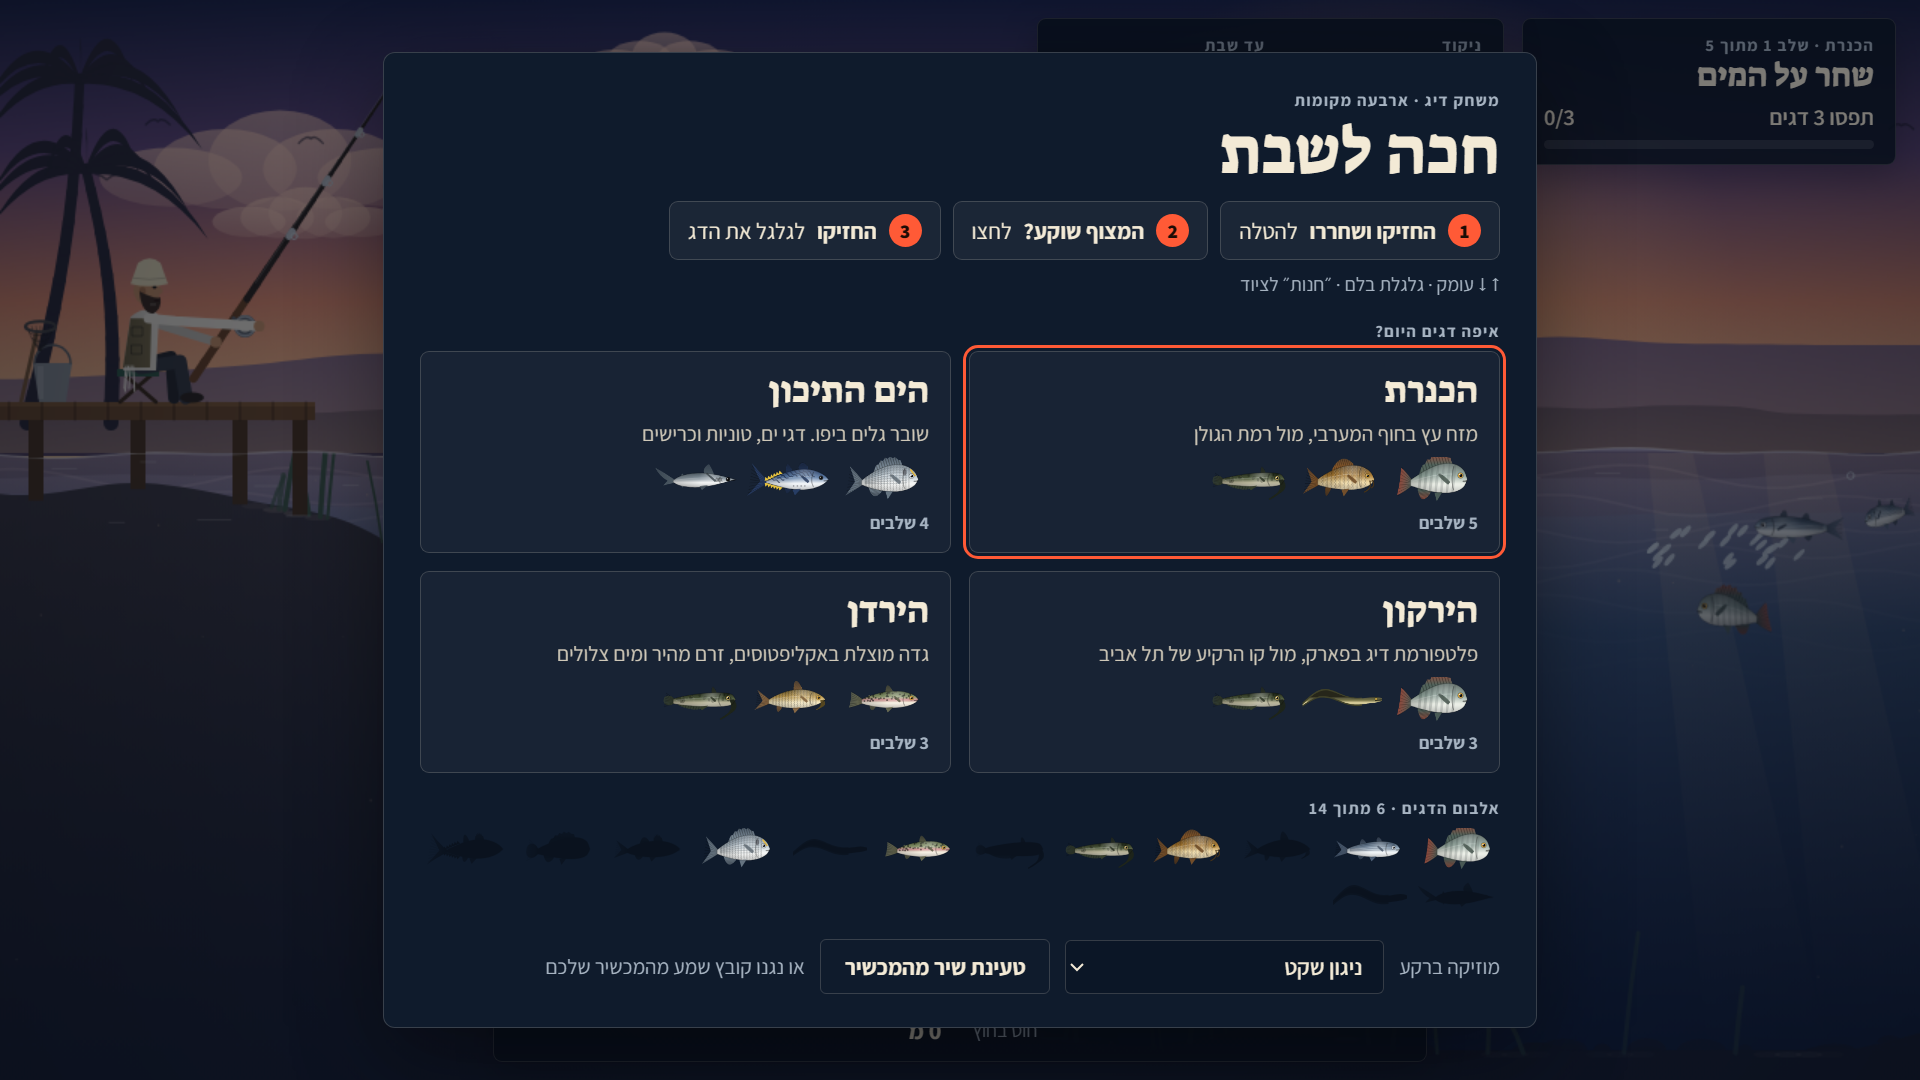
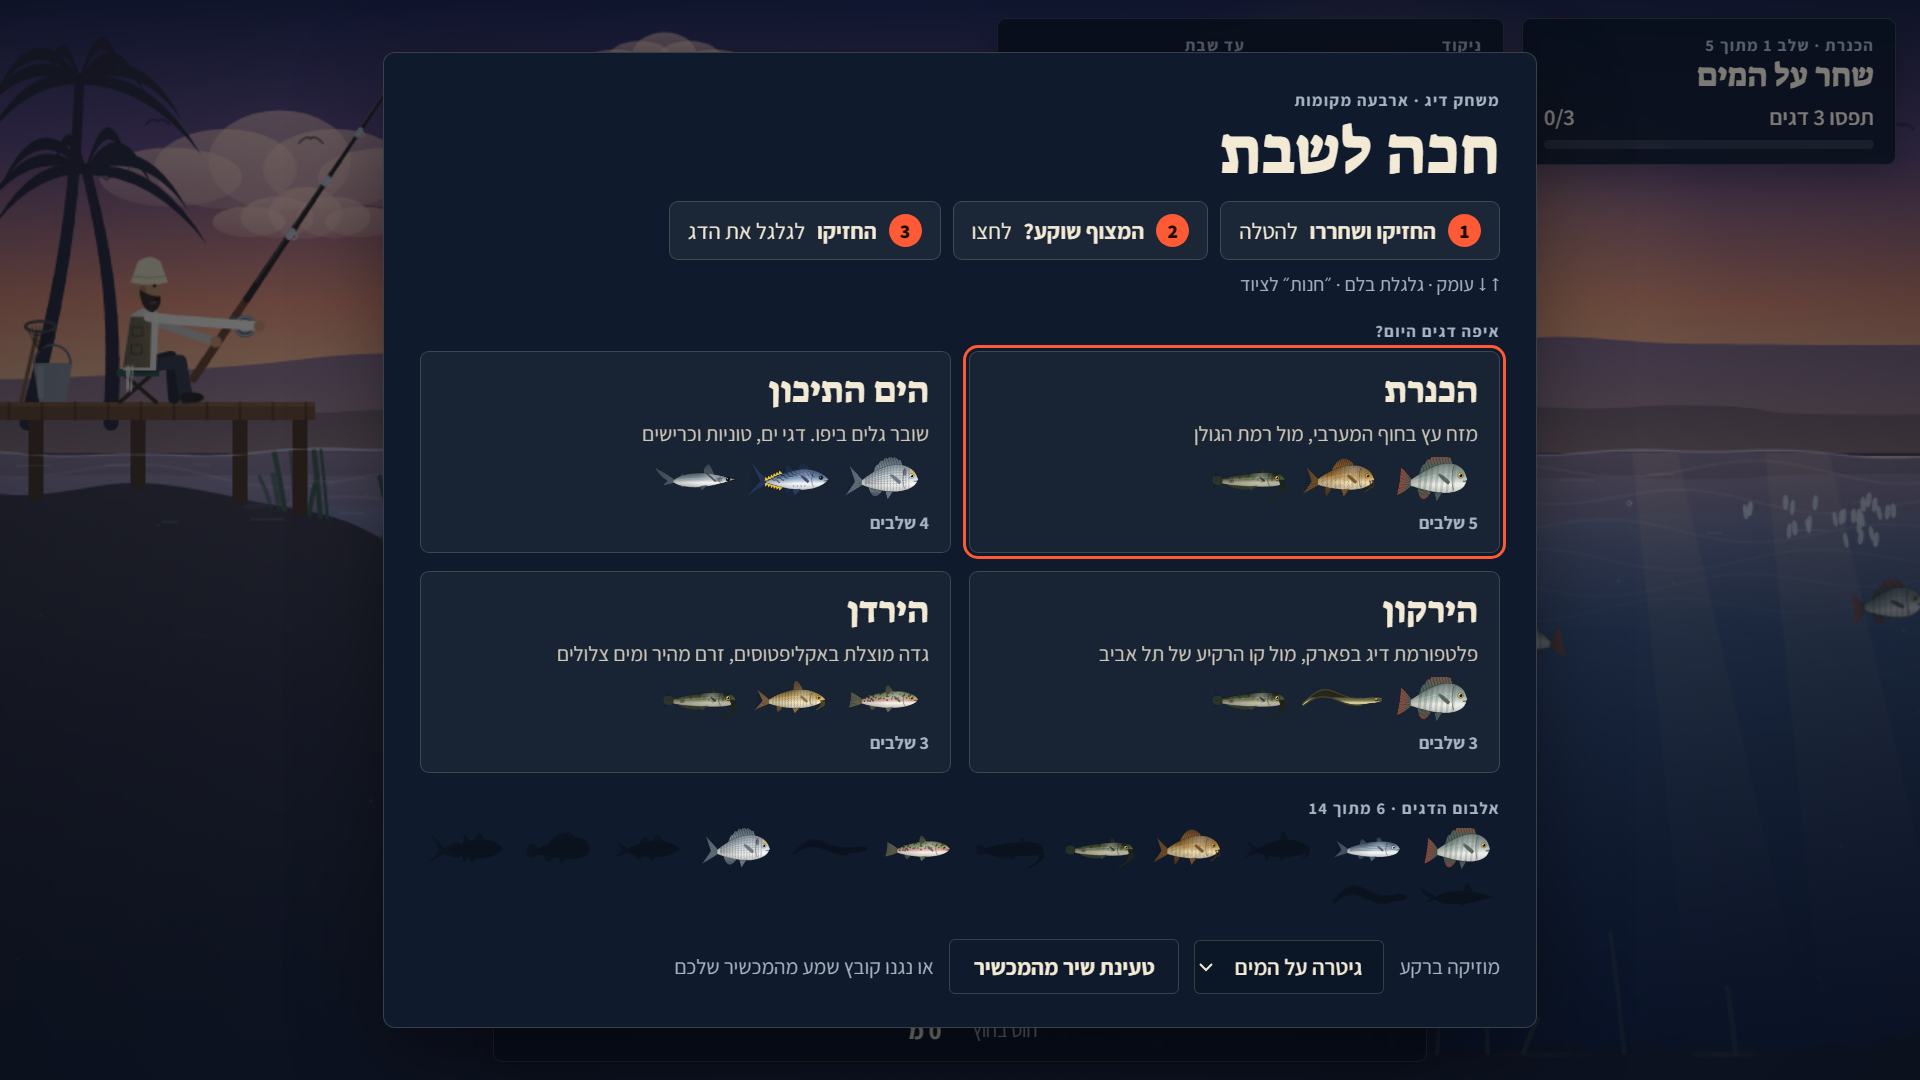
מוזיקה חדשה: גיטרה, נבל, עוד ומים

diff --git a/index.html b/index.html
@@ -1101,149 +1101,133 @@ const sfx = {
   voice: () => { tone(330, 300, 0.09, 'triangle', 0.07); setTimeout(() => tone(392, 360, 0.12, 'triangle', 0.07), 100); },
 };
 
-/* ---------- music: an original niggun in Ahava Rabbah mode (D freygish), synthesised live ---------- */
-const NOTE = { D4: 62, Eb4: 63, Fs4: 66, G4: 67, A4: 69, Bb4: 70, C5: 72, D5: 74, Eb5: 75, Fs5: 78, G5: 79, A5: 81 };
-const CHORD = { D: [38, [50, 54, 57]], Gm: [43, [55, 58, 62]], Cm: [36, [48, 51, 55]] };
-const TUNE = [
-  { m: 'A4 D5 D5 C5 Bb4 C5 D5:2 Eb5 D5 C5 Bb4 A4:4 A4 Bb4 C5 Bb4 A4 G4 Fs4:2 G4 A4 Bb4 G4 A4:4', c: 'D Gm Cm D Gm D Gm D' },
-  { m: 'A4 D5 D5 C5 Bb4 C5 D5:2 Eb5 D5 C5 Bb4 A4:2 A4:2 G4 Fs4 G4 A4 Bb4 A4 G4:2 Fs4 Eb4 Fs4 G4 D4:4', c: 'D Gm Cm D Cm Gm Cm D' },
-  { m: 'D5 Fs5 A5:2 G5 Fs5 Eb5:2 D5 Eb5 Fs5 Eb5 D5:4 C5 D5 Eb5 D5 C5 Bb4 A4:2 Bb4 C5 D5 C5 A4:4', c: 'D Cm D D Cm Gm Gm D' },
-  { m: 'D5 Fs5 A5:2 G5 Fs5 Eb5:2 D5 Eb5 Fs5 Eb5 D5:2 D5:2 C5 Bb4 A4 G4 Fs4 G4 A4:2 G4 Fs4 Eb4 Fs4 D4:4', c: 'D Cm D D Cm D Cm D' },
-].map(t => ({ m: t.m.split(/\s+/).map(tok => { const [n, l] = tok.split(':'); return [NOTE[n], +(l || 1)]; }), c: t.c.split(' ') }));
-const ORDER = [0, 1, 0, 1, 2, 3, 2, 3];
-/* Mizrahi tracks: original melodies in Arabic maqamat, with quarter tones (qb = half-flat) */
-const MZ = { C4: 60, D4: 62, Eb4: 63, Eqb4: 63.5, F4: 65, Fs4: 66, G4: 67, A4: 69, Bb4: 70, Bqb4: 70.5, C5: 72, D5: 74, Eb5: 75 };
-const mzParse = str => str.trim().split(/\s+/).map(tok => { const [n, l] = tok.split(':'); return [MZ[n], +(l || 1)]; });
-const RHYTHM = { maqsum: 'DT.TD.T.', baladi: 'DD.TD.T.', ayoub: 'D.kDT.k.' };
-const TRACKS = [
-  { name: 'ניגון שקט', kind: 'niggun' },
-  { name: 'ערב שבת · מקאם חיג׳אז', kind: 'mz', bpm: 100, tonic: 50, drum: 'maqsum', secs: ['A', 'A', 'B', 'A'],
-    A: 'D4 Eb4 Fs4 G4 A4:2 Bb4 A4  G4:2 A4 G4 Fs4:2 Eb4 Fs4  G4 A4 Bb4 C5 D5:2 C5 Bb4  A4 G4 Fs4 Eb4 D4:4',
-    B: 'A4 D5 D5 Eb5 D5:2 C5 Bb4  C5:2 Bb4 A4 Bb4:2 A4 G4  A4 Bb4 C5 Bb4 A4 G4 Fs4 G4  A4:6 Fs4 Eb4' },
-  { name: 'סעודת ליל שבת · מקאם ראסט', kind: 'mz', bpm: 92, tonic: 48, drum: 'baladi', secs: ['A', 'A', 'B', 'A'],
-    A: 'C4 D4 Eqb4 F4 G4:2 F4 Eqb4  D4:2 Eqb4 F4 Eqb4:2 D4 C4  G4 A4 Bqb4 C5 D5:2 C5 Bqb4  A4 G4 F4 Eqb4 D4:2 C4:2',
-    B: 'G4 C5 C5 D5 C5:2 Bqb4 A4  Bqb4:2 A4 G4 A4:2 G4 F4  Eqb4 F4 G4 A4 G4 F4 Eqb4 D4  G4:6 F4 Eqb4' },
-  { name: 'שבת בגליל · מקאם ביאת', kind: 'mz', bpm: 116, tonic: 50, drum: 'ayoub', secs: ['A', 'A', 'B', 'A'],
-    A: 'D4 Eqb4 F4 G4 A4:2 G4 F4  Eqb4 F4 G4 F4 Eqb4:2 D4:2  A4 Bb4 C5 Bb4 A4 G4 F4 G4  A4:2 G4 F4 Eqb4 F4 D4:2',
-    B: 'D5:2 C5 Bb4 A4:2 Bb4 C5  D5 C5 Bb4 A4 G4:2 A4 Bb4  A4 G4 F4 G4 A4 Bb4 A4 G4  F4 Eqb4 F4 G4 A4:4' },
-].map(t => t.kind === 'mz' ? Object.assign(t, { parts: { A: mzParse(t.A), B: mzParse(t.B) } }) : t);
-const MUSIC_KEY = 'hakhaleshabat-music';
-const music = { on: true, track: 0, next: 0, sec: 0, idx: 0, pos: 0, prev: null, own: null, src: null };
-try { const v = JSON.parse(localStorage.getItem(MUSIC_KEY)); if (v === 'off') music.on = false; else if (TRACKS[v]) music.track = v; } catch (e) { /* storage blocked */ }
-let mbus = null, noiseBuf = null;
+/* ---------- music: plucked strings (Karplus-Strong) in a soft room, calm and unhurried ---------- */
+const MUSIC_KEY = 'hakhaleshabat-music2';
+const music = { on: true, track: 0, next: 0, step: 0, own: null, src: null, water: null };
+try { const v = JSON.parse(localStorage.getItem(MUSIC_KEY)); if (v === 'off') music.on = false; else if (Number.isInteger(v) && v >= 0 && v < 4) music.track = v; } catch (e) { /* storage blocked */ }
+let mbus = null;
 const mtof = m => 440 * Math.pow(2, (m - 69) / 12);
-function musicBus() { if (!mbus) { mbus = AC.createGain(); mbus.gain.value = music.on ? 0.38 : 0; mbus.connect(AC.destination); } return mbus; }
-function mvoice(type, m, t, dur, gain, cutoff, vib) {
-  const o = AC.createOscillator(), g = AC.createGain(), f = AC.createBiquadFilter();
-  o.type = type; o.frequency.setValueAtTime(mtof(m), t);
-  if (vib && dur > 0.3) { const l = AC.createOscillator(), lg = AC.createGain(); l.frequency.value = 5.5; lg.gain.setValueAtTime(0, t); lg.gain.linearRampToValueAtTime(mtof(m) * 0.012, t + 0.25); l.connect(lg); lg.connect(o.frequency); l.start(t); l.stop(t + dur + 0.05); }
-  f.type = 'lowpass'; f.frequency.value = cutoff;
-  g.gain.setValueAtTime(0.0001, t); g.gain.exponentialRampToValueAtTime(gain, t + 0.015);
-  g.gain.setValueAtTime(gain, t + dur * 0.75); g.gain.exponentialRampToValueAtTime(0.0001, t + dur);
-  o.connect(f); f.connect(g); g.connect(musicBus()); o.start(t); o.stop(t + dur + 0.02);
+function roomIR() {
+  const len = Math.floor(AC.sampleRate * 2.4), b = AC.createBuffer(2, len, AC.sampleRate);
+  for (let c = 0; c < 2; c++) { const d = b.getChannelData(c); for (let i = 0; i < len; i++) d[i] = (Math.random() * 2 - 1) * Math.pow(1 - i / len, 3.2); }
+  return b;
 }
-function mdrumNoise(t, dur, type, freq, q, gain) {
-  if (!noiseBuf) { noiseBuf = AC.createBuffer(1, Math.floor(AC.sampleRate * 0.3), AC.sampleRate); const d = noiseBuf.getChannelData(0); for (let i = 0; i < d.length; i++) d[i] = Math.random() * 2 - 1; }
-  const s = AC.createBufferSource(), f = AC.createBiquadFilter(), g = AC.createGain();
-  s.buffer = noiseBuf; f.type = type; f.frequency.value = freq; f.Q.value = q;
-  g.gain.setValueAtTime(gain, t); g.gain.exponentialRampToValueAtTime(0.0001, t + dur);
-  s.connect(f); f.connect(g); g.connect(musicBus()); s.start(t); s.stop(t + dur + 0.02);
+function musicBus() {
+  if (!mbus) {
+    mbus = AC.createGain(); mbus.gain.value = music.on ? 0.55 : 0;
+    const comp = AC.createDynamicsCompressor(); comp.threshold.value = -18; comp.ratio.value = 3;
+    const rev = AC.createConvolver(), wet = AC.createGain(); rev.buffer = roomIR(); wet.gain.value = 0.3;
+    mbus.connect(comp); mbus.connect(rev); rev.connect(wet); wet.connect(comp); comp.connect(AC.destination);
+  }
+  return mbus;
 }
-function mkick(t, gain, f0 = 110, f1 = 45, len = 0.18) {
+// a plucked string, rendered once per note and instrument
+const VOICE = {
+  guitar: { len: 3.2, decay: 0.996, pick: 0.35 },
+  harp: { len: 4.0, decay: 0.998, pick: 0.6 },
+  oud: { len: 2.4, decay: 0.993, pick: 0.85 },
+};
+const ksCache = new Map();
+function ks(m, voice) {
+  const key = voice + m;
+  if (ksCache.has(key)) return ksCache.get(key);
+  const v = VOICE[voice], sr = AC.sampleRate, P = sr / mtof(m) - 0.5, Pi = Math.floor(P), fr = P - Pi;
+  const n = Math.floor(sr * v.len), b = AC.createBuffer(1, n, sr), y = b.getChannelData(0);
+  let lp = 0;
+  for (let i = 0; i < Pi + 2 && i < n; i++) { lp += (Math.random() * 2 - 1 - lp) * v.pick; y[i] = lp; }
+  for (let i = Pi + 2; i < n; i++) {
+    const a = y[i - Pi] * (1 - fr) + y[i - Pi - 1] * fr, c = y[i - Pi - 1] * (1 - fr) + y[i - Pi - 2] * fr;
+    y[i] = v.decay * 0.5 * (a + c);
+  }
+  let pk = 0; for (let i = 0; i < Math.min(n, 6000); i++) pk = Math.max(pk, Math.abs(y[i]));
+  const k = pk ? 0.9 / pk : 1; for (let i = 0; i < n; i++) y[i] *= k;
+  for (let i = 0; i < 400; i++) y[n - 1 - i] *= i / 400;          // no click at the end
+  ksCache.set(key, b);
+  return b;
+}
+function pluck(m, voice, t, gain) {
+  const s = AC.createBufferSource(), g = AC.createGain();
+  s.buffer = ks(m, voice); g.gain.value = gain;
+  s.connect(g); g.connect(musicBus()); s.start(t);
+}
+function pad(ms, t, dur, gain) {
+  for (const m of ms) {
+    const o = AC.createOscillator(), g = AC.createGain(); o.type = 'sine'; o.frequency.value = mtof(m);
+    g.gain.setValueAtTime(0.0001, t); g.gain.linearRampToValueAtTime(gain, t + dur * 0.4); g.gain.linearRampToValueAtTime(0.0001, t + dur);
+    o.connect(g); g.connect(musicBus()); o.start(t); o.stop(t + dur + 0.05);
+  }
+}
+function mdum(t, gain) {
   const o = AC.createOscillator(), g = AC.createGain();
-  o.frequency.setValueAtTime(f0, t); o.frequency.exponentialRampToValueAtTime(f1, t + len * 0.7);
-  g.gain.setValueAtTime(gain, t); g.gain.exponentialRampToValueAtTime(0.0001, t + len);
-  o.connect(g); g.connect(musicBus()); o.start(t); o.stop(t + len + 0.02);
+  o.frequency.setValueAtTime(92, t); o.frequency.exponentialRampToValueAtTime(55, t + 0.25);
+  g.gain.setValueAtTime(gain, t); g.gain.exponentialRampToValueAtTime(0.0001, t + 0.5);
+  o.connect(g); g.connect(musicBus()); o.start(t); o.stop(t + 0.55);
 }
-// darbuka: dum (low), tek (sharp rim), ka (soft rim)
-function mdrum(sym, t) {
-  if (sym === 'D') { mkick(t, 0.32, 100, 52, 0.3); mdrumNoise(t, 0.04, 'lowpass', 300, 0.7, 0.12); }
-  else if (sym === 'T') mdrumNoise(t, 0.06, 'bandpass', 3400, 1.6, 0.11);
-  else if (sym === 'k') mdrumNoise(t, 0.05, 'bandpass', 3000, 1.6, 0.08);
+// gentle lake water: looped brown noise that rises and falls like small waves
+function waterStart() {
+  if (music.water) return;
+  const sr = AC.sampleRate, len = sr * 6, b = AC.createBuffer(1, len, sr), d = b.getChannelData(0);
+  let br = 0; for (let i = 0; i < len; i++) { br = br * 0.985 + (Math.random() * 2 - 1) * 0.015; d[i] = br * 5; }
+  const fade = sr; for (let i = 0; i < fade; i++) { const w = i / fade; d[len - fade + i] = d[len - fade + i] * (1 - w) + d[i] * w; }
+  const s = AC.createBufferSource(), f = AC.createBiquadFilter(), g = AC.createGain(), l = AC.createOscillator(), lg = AC.createGain();
+  s.buffer = b; s.loop = true; f.type = 'lowpass'; f.frequency.value = 650;
+  g.gain.value = 0.22; l.frequency.value = 0.17; lg.gain.value = 0.12; l.connect(lg); lg.connect(g.gain);
+  s.connect(f); f.connect(g); g.connect(musicBus()); s.start(); l.start();
+  music.water = { s, l };
 }
-// oud and qanun: a bright pluck that darkens as it decays
-function mpluck(n, t, gain) {
-  const o = AC.createOscillator(), f = AC.createBiquadFilter(), g = AC.createGain();
-  o.type = 'sawtooth'; o.frequency.setValueAtTime(mtof(n) * 1.01, t); o.frequency.exponentialRampToValueAtTime(mtof(n), t + 0.03);
-  f.type = 'lowpass'; f.frequency.setValueAtTime(3200, t); f.frequency.exponentialRampToValueAtTime(500, t + 0.25); f.Q.value = 2;
-  g.gain.setValueAtTime(gain, t); g.gain.exponentialRampToValueAtTime(0.0001, t + 0.7);
-  o.connect(f); f.connect(g); g.connect(musicBus()); o.start(t); o.stop(t + 0.72);
+function waterStop() { if (music.water) { try { music.water.s.stop(); music.water.l.stop(); } catch (e) { /* already stopped */ } music.water = null; } }
+
+const hum = () => rand(-0.008, 0.008);
+// 1 · fingerpicked guitar, G major, I–vi–IV–V
+const GTR = { G: [43, 50, 55, 59, 62, 67], Em: [40, 47, 52, 55, 59, 64], C: [48, 52, 55, 60, 64, 67], D: [50, 57, 62, 66, 69], Am: [45, 52, 57, 60, 64] };
+const GTR_PROG = 'G Em C D G Em Am D Em C G D C D G G'.split(' ');
+const GTR_PAT = [[0, 2, 3, 4, 5, 4, 3, 2], [0, 3, 4, 5, 2, 4, 3, 5]];
+function gtrTick(t, k) {
+  const e = 60 / 66 / 2, bar = Math.floor(k / 8), v = GTR[GTR_PROG[bar % GTR_PROG.length]], i = k % 8;
+  pluck(v[Math.min(GTR_PAT[bar % 2][i], v.length - 1)], 'guitar', t + hum(), (i === 0 ? 0.34 : 0.2) * rand(0.85, 1));
+  return e;
 }
-// kamanja-style lead that slides into each note
-function mlead(n, t, dur, prev) {
-  const fr = mtof(n), pf = prev ? mtof(prev) : fr, g = AC.createGain(), f = AC.createBiquadFilter();
-  f.type = 'lowpass'; f.frequency.value = 1900; f.Q.value = 0.7;
-  const l = AC.createOscillator(), lg = AC.createGain();
-  l.frequency.value = 6; lg.gain.setValueAtTime(0, t); lg.gain.linearRampToValueAtTime(fr * 0.01, t + Math.min(0.3, dur)); l.connect(lg);
-  for (const det of [-6, 6]) {
-    const o = AC.createOscillator(); o.type = 'sawtooth'; o.detune.value = det;
-    o.frequency.setValueAtTime(pf, t); o.frequency.exponentialRampToValueAtTime(fr, t + Math.min(0.08, dur * 0.3));
-    lg.connect(o.frequency); o.connect(f); o.start(t); o.stop(t + dur + 0.06);
-  }
-  g.gain.setValueAtTime(0.0001, t); g.gain.exponentialRampToValueAtTime(0.022, t + 0.06);
-  g.gain.setValueAtTime(0.022, t + dur * 0.8); g.gain.exponentialRampToValueAtTime(0.0001, t + dur + 0.04);
-  f.connect(g); g.connect(musicBus()); l.start(t); l.stop(t + dur + 0.06);
+// 2 · harp arpeggios with a soft pad, D major
+const HARP = { D: [38, 50, 57, 62, 66, 69, 74, 78], A: [45, 52, 57, 61, 64, 69, 73, 76], Bm: [47, 54, 59, 62, 66, 71, 74, 78], Fsm: [42, 54, 57, 61, 66, 69, 73, 78], G: [43, 55, 59, 62, 67, 71, 74, 79] };
+const HARP_PROG = 'D A Bm Fsm G D G A'.split(' ');
+const HARP_PAT = [0, 3, 4, 5, 6, 7, 6, 5];
+function harpTick(t, k) {
+  const e = 60 / 58 / 2, bar = Math.floor(k / 8), name = HARP_PROG[bar % HARP_PROG.length], v = HARP[name], i = k % 8;
+  pluck(v[HARP_PAT[i]], 'harp', t + hum(), (i === 0 ? 0.3 : 0.17) * rand(0.85, 1));
+  if (i === 0) pad([v[2], v[3], v[4]], t, e * 8.4, 0.012);
+  return e;
 }
-/* a calm, slow niggun in D minor, 3/4: a soft hummed lead over a gentle waltz */
-const CN = { Cs4: 61, D4: 62, E4: 64, F4: 65, G4: 67, A4: 69, Bb4: 70, C5: 72, Cs5: 73, D5: 74, E5: 76, F5: 77 };
-const CALM_CH = { Dm: [38, [50, 53, 57]], Gm: [43, [55, 58, 62]], A: [45, [52, 57, 61]] };
-const CALM = [
-  { m: 'A4:2 D5:2 C5 Bb4  A4:4 G4 A4  Bb4:2 A4:2 G4 F4  E4:4 D4 E4  F4:2 G4:2 A4 Bb4  A4:3 G4 F4 E4  F4:2 E4:2 Cs4 E4  D4:6', c: 'Dm Dm Gm A Dm Gm A Dm' },
-  { m: 'D5:2 F5:2 E5 D5  Cs5:4 A4:2  Bb4:2 D5:2 C5 Bb4  A4:6  G4:2 Bb4:2 A4 G4  F4:3 E4 F4 G4  A4:2 G4:2 E4 Cs4  D4:6', c: 'Dm A Gm Dm Gm Dm A Dm' },
-].map(t => ({ m: t.m.trim().split(/\s+/).map(tok => { const [n, l] = tok.split(':'); return [CN[n], +(l || 1)]; }), c: t.c.split(' ') }));
-const CALM_ORDER = [0, 0, 1, 1];
-// warm hummed voice: sine and triangle together, slow attack, vibrato that arrives late
-function msoft(n, t, dur) {
-  const fr = mtof(n), g = AC.createGain(), f = AC.createBiquadFilter(), l = AC.createOscillator(), lg = AC.createGain();
-  f.type = 'lowpass'; f.frequency.value = 1500;
-  l.frequency.value = 4.8; lg.gain.setValueAtTime(0, t); lg.gain.linearRampToValueAtTime(fr * 0.007, t + Math.min(0.6, dur)); l.connect(lg);
-  for (const [type, lvl] of [['sine', 1], ['triangle', 0.5]]) {
-    const o = AC.createOscillator(), og = AC.createGain(); o.type = type; o.frequency.setValueAtTime(fr, t); og.gain.value = lvl;
-    lg.connect(o.frequency); o.connect(og); og.connect(f); o.start(t); o.stop(t + dur + 0.15);
-  }
-  g.gain.setValueAtTime(0.0001, t); g.gain.exponentialRampToValueAtTime(0.045, t + 0.09);
-  g.gain.setValueAtTime(0.045, t + dur * 0.7); g.gain.exponentialRampToValueAtTime(0.0001, t + dur + 0.12);
-  f.connect(g); g.connect(musicBus()); l.start(t); l.stop(t + dur + 0.15);
+// 3 · oud taqsim in Hijaz over a low drone, free and slow
+const OUD = [
+  [62, 1.2], [63, 0.4], [66, 0.4], [67, 0.8], [69, 1.6, 1], [67, 0.4], [66, 0.4], [63, 0.4], [62, 2.0], [0, 0.8],
+  [69, 0.6], [70, 0.4], [69, 0.4], [67, 0.4], [66, 0.8], [67, 0.4], [69, 1.6, 1], [0, 0.8],
+  [74, 1.0, 1], [72, 0.4], [70, 0.4], [69, 0.8], [67, 0.4], [66, 0.4], [63, 0.6], [62, 2.2], [0, 1.2],
+];
+function oudTick(t, k) {
+  const [m, d, trem] = OUD[k % OUD.length];
+  if (k % 9 === 0) { pluck(38, 'oud', t, 0.2); mdum(t, 0.1); }
+  if (!m) return d;
+  pluck(m - 12, 'oud', t + hum(), 0.3 * rand(0.9, 1));
+  if (trem) for (let r = 0.12; r < d - 0.1; r += 0.1) pluck(m - 12, 'oud', t + r, 0.12 * (1 - r / d));
+  return d;
 }
-function niggunTick(now) {
-  const bpm = st === 'hooked' ? 90 : 76, e = 60 / bpm / 2;
-  while (music.next < now + 0.3) {
-    const part = CALM[CALM_ORDER[music.sec % CALM_ORDER.length]], [n, len] = part.m[music.idx], t = music.next;
-    msoft(n, t, len * e * 0.98);
-    for (let k = 0; k < len; k++) {
-      const p = music.pos + k, bar = Math.floor(p / 6) % part.c.length, sub = p % 6, tt = t + k * e;
-      const [root, ch] = CALM_CH[part.c[bar]];
-      if (sub === 0) mvoice('sine', root, tt, e * 2.6, 0.12, 500);
-      else if (sub === 2 || sub === 4) for (const cn of ch) mvoice('triangle', cn, tt, e * 1.5, 0.011, 900);
-    }
-    music.pos += len; music.next += len * e; music.idx++;
-    if (music.idx >= part.m.length) { music.idx = 0; music.pos = 0; music.sec = (music.sec + 1) % CALM_ORDER.length; }
-  }
+// 4 · just the water, with a rare high chime
+function waterTick(t, k) {
+  if (k % 2) pluck([74, 76, 79, 81, 83][Math.floor(Math.random() * 5)], 'harp', t, 0.06);
+  return rand(4, 8);
 }
-function mizrahiTick(tr, now) {
-  const bpm = tr.bpm * (st === 'hooked' ? 1.15 : 1) + stormK * 8, e = 60 / bpm / 2;
-  while (music.next < now + 0.3) {
-    const part = tr.parts[tr.secs[music.sec % tr.secs.length]], [n, len] = part[music.idx], t = music.next;
-    mlead(n, t, len * e * 0.96, music.prev); music.prev = n;
-    mpluck(n - 12, t, 0.05);                                             // oud doubles the tune an octave down
-    if (len >= 4) for (let k = 1; k < len * 2; k++) mpluck(n + 12, t + k * e / 2, 0.022 * (1 - k / (len * 2)));   // qanun tremolo
-    for (let k = 0; k < len; k++) {
-      const p = music.pos + k, step = p % 8, tt = t + k * e;
-      mdrum(RHYTHM[tr.drum][step], tt);
-      mdrumNoise(tt + e / 2, 0.02, 'highpass', 8000, 0.7, 0.01);       // riq jingles
-      if (step === 0) mpluck(tr.tonic, tt, 0.09);
-      else if (step === 4) mpluck(tr.tonic + 7, tt, 0.06);
-    }
-    music.pos += len; music.next += len * e; music.idx++;
-    if (music.idx >= part.length) { music.idx = 0; music.sec = (music.sec + 1) % tr.secs.length; }
-  }
-}
+const TRACKS = [
+  { name: 'גיטרה על המים', tick: gtrTick },
+  { name: 'נבל של שבת', tick: harpTick },
+  { name: 'עוד בערב', tick: oudTick },
+  { name: 'רק המים', tick: waterTick, water: true },
+];
 function musicTick() {
   if (!AC || !music.on || music.track === 'own' || AC.state !== 'running') return;
-  const now = AC.currentTime;
-  if (music.next < now) music.next = now + 0.06;
-  const tr = TRACKS[music.track];
-  if (tr.kind === 'niggun') niggunTick(now); else mizrahiTick(tr, now);
+  const now = AC.currentTime, tr = TRACKS[music.track];
+  if (tr.water) waterStart(); else waterStop();
+  if (music.next < now) music.next = now + 0.1;
+  while (music.next < now + 0.35) music.next += tr.tick(music.next, music.step++);
 }
 // a song the player loads from their own device plays instead; nothing is uploaded
 async function loadSong(file) {
@@ -1262,16 +1246,16 @@ const currentOpt = () => !music.on ? 'off' : music.track;
 const trackName = v => v === 'off' ? 'כבויה' : v === 'own' ? 'השיר שלי' : TRACKS[v].name;
 const trackOptionsHTML = () => musicOptions().map(v => `<option value="${v}">${trackName(v)}</option>`).join('');
 function setTrack(v) {
-  ensureAudio(); stopOwn();
+  ensureAudio(); stopOwn(); waterStop();
   if (v === 'off') music.on = false; else { music.on = true; music.track = v; }
-  music.sec = 0; music.idx = 0; music.pos = 0; music.prev = null; music.next = 0;
-  if (AC) musicBus().gain.setTargetAtTime(music.on ? 0.38 : 0, AC.currentTime, 0.05);
+  music.step = 0; music.next = 0;
+  if (AC) musicBus().gain.setTargetAtTime(music.on ? 0.55 : 0, AC.currentTime, 0.05);
   if (music.on && v === 'own') playOwn();
   try { localStorage.setItem(MUSIC_KEY, JSON.stringify(v === 'own' ? 0 : v)); } catch (e) { /* storage blocked */ }
   updMusicBtn();
 }
 function updMusicBtn() {
-  $('musicBtn').textContent = 'מוזיקה: ' + (music.on && music.track !== 'own' ? TRACKS[music.track].name.split(' · ')[0] : trackName(currentOpt()));
+  $('musicBtn').textContent = 'מוזיקה: ' + trackName(currentOpt());
   const s = $('trackSel'); if (s) s.value = String(currentOpt());
 }
 $('musicBtn').onclick = () => { const o = musicOptions(), i = o.indexOf(currentOpt()); setTrack(o[(i + 1) % o.length]); };
